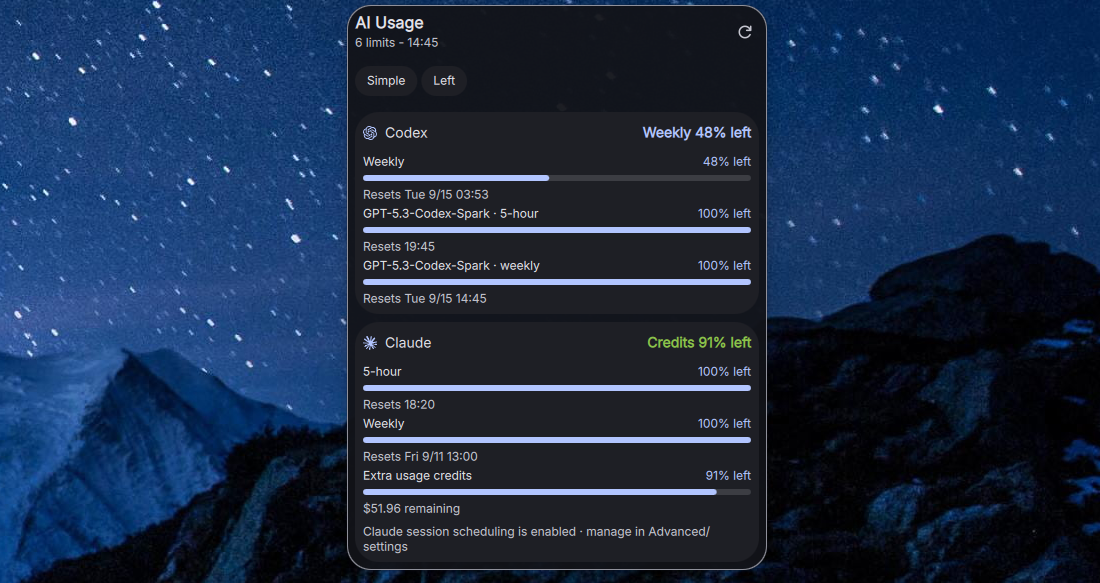
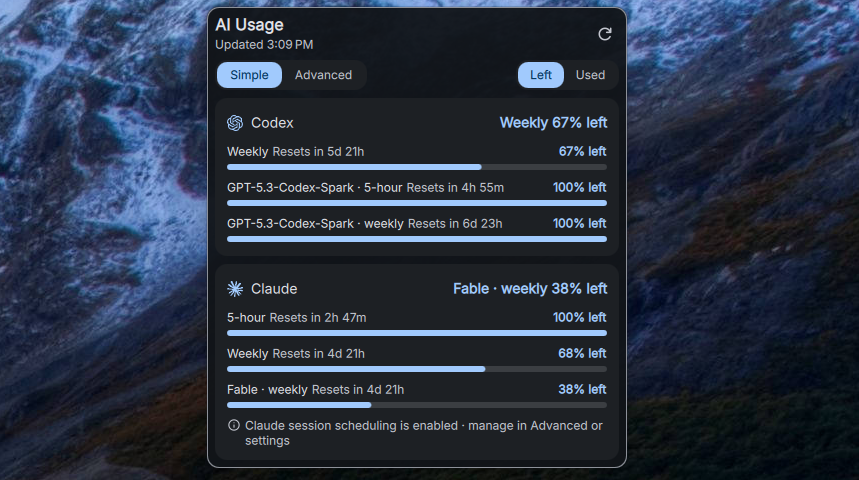
chore: prepare v1.0.0 release

diff --git a/DankAIUsageWidget.qml b/DankAIUsageWidget.qml
@@ -506,7 +506,7 @@ PluginComponent {
             receipts[key] = now
             announcementReceipts = receipts
             pluginService.savePluginState(pluginId, "announcementReceipts", receipts)
-            ToastService.showInfo("Public reset announcement",
+            ToastService.showInfo("Public reset announcement (Alpha)",
                     (event.provider === "codex" ? "Codex" : "Claude") + " reset announced by "
                     + formatShortDateTime(event.expectedBy) + ". Reported via TokenResets; check eligibility in the dropdown.")
         }
@@ -2104,7 +2104,7 @@ PluginComponent {
                                 width: parent.width
                                 text: upcomingAnnouncementCard.event
                                         ? root.announcementSummary(upcomingAnnouncementCard.event)
-                                          + "\nVerified by TokenResets · account eligibility unverified" : ""
+                                          + "\nAlpha · verified by TokenResets · account eligibility unverified" : ""
                                 textFormat: Text.PlainText
                                 font.pixelSize: Theme.fontSizeSmall
                                 color: Theme.surfaceVariantText
@@ -2555,7 +2555,7 @@ PluginComponent {
                                             text: publicContext ? (publicContext.confidence === "verified"
                                                     ? "Likely linked to announced reset"
                                                     : "Public reset reported near this observation")
-                                                    + " · via TokenResets · account eligibility unverified\n" + root.announcementSummary(publicContext) : ""
+                                                    + " · Alpha · via TokenResets · account eligibility unverified\n" + root.announcementSummary(publicContext) : ""
                                             textFormat: Text.PlainText
                                             color: Theme.surfaceVariantText
                                             font.pixelSize: Theme.fontSizeSmall
@@ -2598,7 +2598,7 @@ PluginComponent {
 
                         SectionHeader {
                             width: parent.width
-                            title: "Public reset announcements"
+                            title: "Public reset announcements (Alpha)"
                             badge: root.visibleAnnouncements().length ? "" + root.visibleAnnouncements().length : ""
                             expanded: root.announcementsOpen
                             visible: root.advancedDropdown && root.publicResetAnnouncements

diff --git a/DankAIUsageSettings.qml b/DankAIUsageSettings.qml
@@ -391,8 +391,8 @@ PluginSettings {
 
     ToggleSetting {
         settingKey: "publicResetAnnouncements"
-        label: "Public reset announcements"
-        description: "Opt in to TokenResets public reports for Codex and Claude. The feed host sees your IP address and ordinary request metadata; no account data is sent. Checks every 15 minutes. Announcements are not guarantees for your account."
+        label: "Public reset announcements (Alpha)"
+        description: "Experimental third-party reports, advance alerts, and reset matching via TokenResets. May be incomplete or incorrect; do not rely on them to spend quota or redeem resets. The feed host sees your IP address and ordinary request metadata; no account data is sent. Checks every 15 minutes. Announcements are not guarantees for your account."
         defaultValue: false
     }
 }

diff --git a/README.md b/README.md
@@ -63,8 +63,8 @@ header; both labels are visible and the active one is highlighted. Simple
 focuses on provider quota bars, percentages, reset countdowns, and warnings.
 Advanced adds the overall summary with an allowance ring, local token history
 and tracking controls, available reset details, and a set of collapsible
-sections at the bottom: reset history, public reset announcements, bar
-controls, and diagnostics. The header line shows when usage was last updated,
+sections at the bottom: reset history, public reset announcements (Alpha),
+and diagnostics. Bar preferences live in plugin settings. The header line shows when usage was last updated,
 whether it is stale, and (in Advanced) the next scheduled refresh. Failures
 and prompts that need a decision appear above the provider cards; routine
 information such as cached usage or local-history caveats uses neutral
@@ -295,10 +295,14 @@ offset a redemption. Sleep, unavailable data, caching, and gaps between polls
 can hide intermediate events. Automatic observations do not store credentials,
 account identifiers, prompts, or opaque reset-credit IDs.
 
-#### Public reset announcements (optional)
+#### Public reset announcements (Alpha, optional)
 
-Enable **Public reset announcements** in settings to read the
+Enable **Public reset announcements (Alpha)** in settings to read the
 [TokenResets public feed](https://tokenresets.com/api/). It is off by default.
+This experimental integration includes public reports, advance alerts, and local
+reset matching. Third-party coverage and matching may be incomplete or incorrect.
+Do not rely on it to decide when to spend quota or redeem a reset. Alpha applies
+to these feed-dependent features, not to the entire plugin release.
 The feed host receives your IP address and ordinary request metadata, but the
 plugin sends no credentials, account data, usage totals, history or notes.
 See the service [privacy notice](https://tokenresets.com/privacy/).
